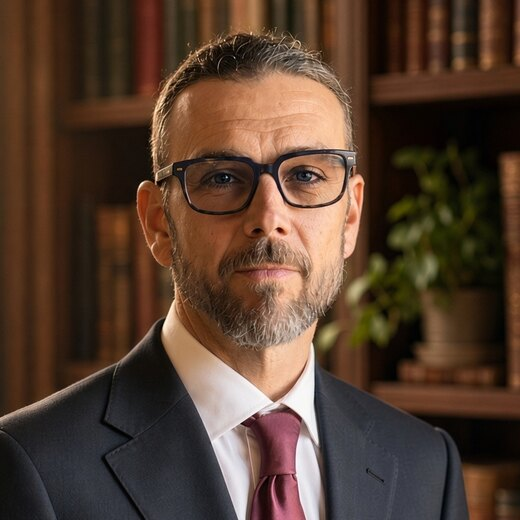
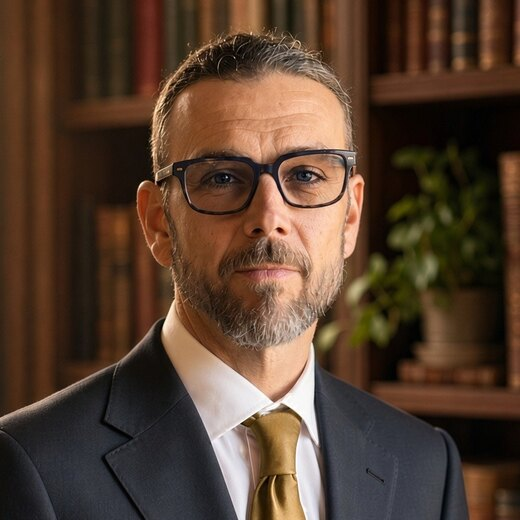
BLD 830: honey gold tie on Chris's headshot
Claude-Session: https://claude.ai/code/session_01WcZgsAiFdTphwpdYq1mWZF

Changed region(s): [[0.4615, 0.7692, 0.6154, 1.0]]

diff --git a/about.html b/about.html
@@ -120,7 +120,7 @@
         <details><summary>Read more</summary><p>Kayti began her career teaching physical education and yoga, including a conflict resolution program for students. For a decade she volunteered weekly in local schools, leading mentorship groups alongside school counselors. She spent seven years as an end-of-life caregiver for her family, working closely with nurses and physicians, and has led ongoing yoga, meditation, and breathwork sessions for adults. As an activities coordinator and lead direct support professional, she worked with youth in state care living in group homes, many carrying significant trauma and behavioral needs. She designed daily one-on-one and group activities, adapting each session to what a young person needed that day, and became a trusted, steady presence for kids others found hard to reach. She is a trained mandated reporter for youth and adults.</p></details>
       </article>
       <article class="card founder">
-        <div class="founder-head"><img src="chris.jpg?v=b829" alt="Chris Joy" loading="lazy"><div><h3>Chris Joy</h3><p class="founder-title">Co-founder &amp; Creative Director</p></div></div>
+        <div class="founder-head"><img src="chris.jpg?v=b830" alt="Chris Joy" loading="lazy"><div><h3>Chris Joy</h3><p class="founder-title">Co-founder &amp; Creative Director</p></div></div>
         <p>Chris is a chaplain with experience in intensive care, pediatrics and the NICU, behavioral health, pandemic response, and hospice. He holds a master's degree in seminary and theology, is an ordained minister legally able to officiate weddings, is a certified PREPARE/ENRICH premarital facilitator, and writes Grounded, a weekly publication of stories from the edge of life.</p>
         <div class="cred"><h4>Credentials</h4><div class="cred-group"><h5>Chaplaincy</h5><ul><li><b>Hospice chaplain</b></li><li><b>Hospital chaplain</b> in the ICU, pediatrics and the NICU, behavioral health, and through the COVID pandemic</li><li>Trained through <b>Resolve Through Sharing</b> in perinatal loss support</li></ul></div><div class="cred-group"><h5>Education</h5><ul><li><b>Four units of Clinical Pastoral Education</b></li><li><b>MA in Biblical and Theological Studies</b>, Western Seminary</li><li><b>Certified PREPARE/ENRICH premarital facilitator</b></li></ul></div><div class="cred-group"><h5>Ceremonies</h5><ul><li><b>Ordained</b> and legally able to officiate in Minnesota</li></ul></div><div class="cred-group"><h5>Writing and Community</h5><ul><li>Writes <a class="text-link" href="https://chri5j0y.substack.com" target="_blank" rel="noopener">Grounded</a> on Substack</li><li>Founder of <b>For Love Of People</b></li></ul></div></div>
         <details><summary>Read more</summary><p>Before chaplaincy, Chris served as an elder and youth pastor in a non-denominational church and spent twenty years in graphic design and print production, experience he now brings to the design of Grow With Grounded's resilience tools, open to everyone, with everything kept on your own device, including Maple, Aspen, Pine, Birch, Oak, Sequoia, Willow, and The Grove. On a behavioral health unit, he led daily meditations for inpatients and weekly sessions in intensive outpatient care, using crystal sound bowls, body scan meditations, and mindfulness practices, along with grief groups and workshops. He is trained through Resolve Through Sharing to support parents, families, and caregivers through pregnancy and infant loss. Ordained through the Universal Life Church, he leads weddings, blessings, and memorial services for people of all faith traditions and everything in-between.</p></details>

diff --git a/shared/gg-print.js b/shared/gg-print.js
@@ -467,7 +467,7 @@
     side += '<div class="th-card th-watch" data-qr="watch"><div class="th-qr" data-url="' + esc(n.watch.url) + '">' + thQR(n.watch.url, 'QR code: ' + n.watch.title) + '</div><div><h3 class="serif">' + esc(n.watch.title) + '</h3><p>' + esc(n.watch.line) + '</p><span>' + esc(n.watch.short) + '</span></div></div>';
     if (n.help) side += '<div class="th-card th-help"><h3 class="serif">' + esc(n.help.h) + '</h3><ul>' + n.help.li.map(function (x) { return '<li>' + esc(x) + '</li>'; }).join('') + '</ul></div>';
     side += '</aside>';
-    var who = '<div class="th-who"><span class="th-pics"><img src="' + A('/kayti-joy-avatar.jpg') + '" alt="Kayti Joy"><img src="' + A('/chris.jpg?v=b829') + '" alt="Chris Joy"></span><div><h3 class="serif">' + esc(n.who.h) + '</h3><p>' + esc(n.who.p) + '</p><p class="th-contact">' + esc(n.who.contact) + '</p></div><img class="th-logo" src="' + A('/favicon.svg') + '" alt=""></div>';
+    var who = '<div class="th-who"><span class="th-pics"><img src="' + A('/kayti-joy-avatar.jpg') + '" alt="Kayti Joy"><img src="' + A('/chris.jpg?v=b830') + '" alt="Chris Joy"></span><div><h3 class="serif">' + esc(n.who.h) + '</h3><p>' + esc(n.who.p) + '</p><p class="th-contact">' + esc(n.who.contact) + '</p></div><img class="th-logo" src="' + A('/favicon.svg') + '" alt=""></div>';
     return '<div class="th th-' + n.kind + (n.title.length > 24 ? ' th-long' : '') + '" style="--c:' + n.color + ';--ink2:' + n.ink + '">' + hero + '<div class="th-body" data-fit>' + main + side + '</div>' + who + '<div class="th-foot">' + esc(n.foot) + '</div></div>';
   }
   var TH_CSS = [
@@ -577,7 +577,7 @@
       };
       return Promise.all([
         ggPdfImage(A('/shared/heroes/' + tr + '-wide.webp'), 1224, 300, { x: (HX[tr] == null ? 50 : HX[tr]) / 100, y: 0.58, paint: shade, q: 0.84 }),
-        ggPdfImage(A('/kayti-joy-avatar.jpg'), 176, 176, { y: 0.35 }), ggPdfImage(A('/chris.jpg?v=b829'), 176, 176, { y: 0.35 })
+        ggPdfImage(A('/kayti-joy-avatar.jpg'), 176, 176, { y: 0.35 }), ggPdfImage(A('/chris.jpg?v=b830'), 176, 176, { y: 0.35 })
       ]).then(function (x) { return { hero: x[0], pics: x[1] && x[2] ? [x[1], x[2]] : null }; });
     });
     return ART[tr];

diff --git a/field-guide/index.html b/field-guide/index.html
@@ -661,7 +661,7 @@ body.cd-noscroll{overflow:hidden;}
 <script src="../read.js?v=b813"></script>
 <script src="../shared/gg-sources.js?v=b809"></script>
 <script src="../shared/gg-learn.js?v=b828"></script>
-<script src="../shared/gg-print.js?v=b829"></script>
+<script src="../shared/gg-print.js?v=b830"></script>
 <script src="../shared/grove-scene.js?v=w2k"></script>
 <script src="../shared/gg-grove-row.js?v=b770"></script>
 <script src="qr.js?v=b782"></script>
@@ -2594,7 +2594,7 @@ function certAct(a, v){
   return false;
 }
 // Certificates, guide posters, and flyers (shared/gg-print.js), loaded the first time one is asked for.
-function fgPrint(){ return new Promise(ok => { if (window.GGPrint) return ok(); const s = document.createElement('script'); s.src = '../shared/gg-print.js?v=b829'; s.onload = s.onerror = () => ok(); document.head.appendChild(s); }); }
+function fgPrint(){ return new Promise(ok => { if (window.GGPrint) return ok(); const s = document.createElement('script'); s.src = '../shared/gg-print.js?v=b830'; s.onload = s.onerror = () => ok(); document.head.appendChild(s); }); }
 // The certificate and two posters for a finished Guide training. tree: maple, aspen, pine, birch, oak, sequoia, willow.
 // GWG BLD 797: printed through the Certificates list, in the Certified Grounded Guide wording.
 function fgGuideCert(tree, st, signed, M, guide){

diff --git a/shared/gg-stories.js b/shared/gg-stories.js
@@ -558,7 +558,7 @@
       } else cEl.innerHTML = invite('A printable card each month for members', 'A line from a Grounded Story and a practice to carry it into your week. Join on Substack to receive your member code.', Cs.map(function (c) { return monthLabel(c.month) + ': ' + c.title; }));
     }
   }
-  var PRINT_JS = '/shared/gg-print.js?v=b829', SOURCES_JS = '/shared/gg-sources.js?v=b809';
+  var PRINT_JS = '/shared/gg-print.js?v=b830', SOURCES_JS = '/shared/gg-sources.js?v=b809';
   function warmPrint() { return need(SOURCES_JS, function () { return !!root.GGSources; }).then(function () { return need(PRINT_JS, function () { return !!root.GGPrint; }); }); }
   function cardModel(id) { var c = cardOf(id), t = ((data() || {}).cards || []).filter(function (x) { return x.id === id; })[0]; if (!c || !t) return null; return { month: t.month, line: c.line, story: c.story, practice: c.practice }; }
   function cardAct(g, id, btn) {

diff --git a/index.html b/index.html
@@ -407,7 +407,7 @@ a.ht-wlc:hover{border-color:var(--gold);}
         <li>Show up</li>
       </ul>
       <p class="indie-line">Grow With Grounded is our own independent practice, here to serve anyone, anywhere.</p>
-      <a class="who-founders" href="about.html"><span class="wf-pics"><img src="kayti-joy-avatar.jpg" alt="" width="44" height="44" loading="lazy"><img src="chris.jpg?v=b829" alt="" width="44" height="44" loading="lazy"></span><span>Founded by Kayti and Chris Joy</span></a>
+      <a class="who-founders" href="about.html"><span class="wf-pics"><img src="kayti-joy-avatar.jpg" alt="" width="44" height="44" loading="lazy"><img src="chris.jpg?v=b830" alt="" width="44" height="44" loading="lazy"></span><span>Founded by Kayti and Chris Joy</span></a>
       <div><a class="btn btn-primary" href="about.html">About us</a></div>
     </div>
   </div>

diff --git a/shared/gg-learn.js b/shared/gg-learn.js
@@ -1063,7 +1063,7 @@
     });
   }
   function lifeFirst() { try { return !!(window.GGLife && (GGLife.has() || GGLife.gentle())); } catch (e) { return false; } }
-  function needPrint() { return script(url('/shared/gg-print.js?v=b829'), function () { return !!window.GGPrint; }); }
+  function needPrint() { return script(url('/shared/gg-print.js?v=b830'), function () { return !!window.GGPrint; }); }
   // Written pages (GWG BLD 787): shared/learn-pages.js, loaded the first time a page or a track with pages shows.
   function needPages() { return script(url('/shared/learn-pages.js?v=' + V), function () { return !!window.GG_LEARN_PAGES; }); }
   function pageOf(app, id) { var P = ((window.GG_LEARN_PAGES || {})[app]) || []; for (var i = 0; i < P.length; i++) if (P[i] && P[i].id === id) return P[i]; return null; }

diff --git a/grove/app.js b/grove/app.js
@@ -1486,7 +1486,7 @@ function printWhat(id, ciId) {
 }
 function printCert() {
   const K = KW(), go = () => GGPrint.certificate({ tree: 'grove', name: G.name || K.name, title: W('certificate.title', 'Twelve Weeks Together'), body: W('certificate.sub', 'Twelve weeks of growing together: checking in, making a plan, and practicing side by side.'), date: today() });
-  if (window.GGPrint) go(); else loadScript('/shared/gg-print.js?v=b829').then(() => { if (window.GGPrint) go(); else toast('The certificate could not load. Check the connection.'); });
+  if (window.GGPrint) go(); else loadScript('/shared/gg-print.js?v=b830').then(() => { if (window.GGPrint) go(); else toast('The certificate could not load. Check the connection.'); });
 }
 
 /* ---------- Earlier (Family) ---------- */

diff --git a/tools.html b/tools.html
@@ -515,7 +515,7 @@ body.bro-open{overflow:hidden;}
 <script src="site.js?v=b779n"></script>
 <script src="search.js?v=b818" defer></script>
 <script src="nav.js?v=b820" defer></script>
-<script src="/shared/gg-print.js?v=b829" defer></script>
+<script src="/shared/gg-print.js?v=b830" defer></script>
 <script>function ggFlyer(t,k){if(window.GGPrint)GGPrint.flyer(t,k);}</script>
 </body>
 </html>
